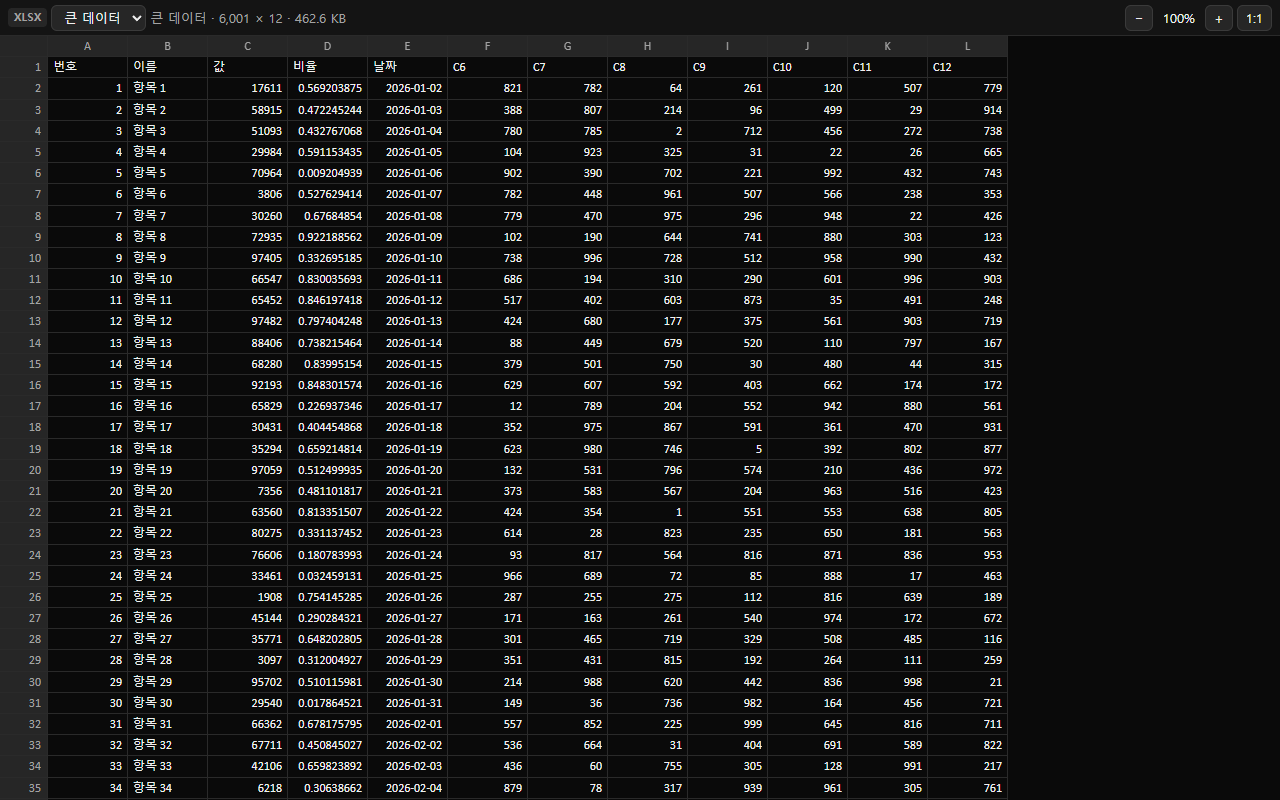
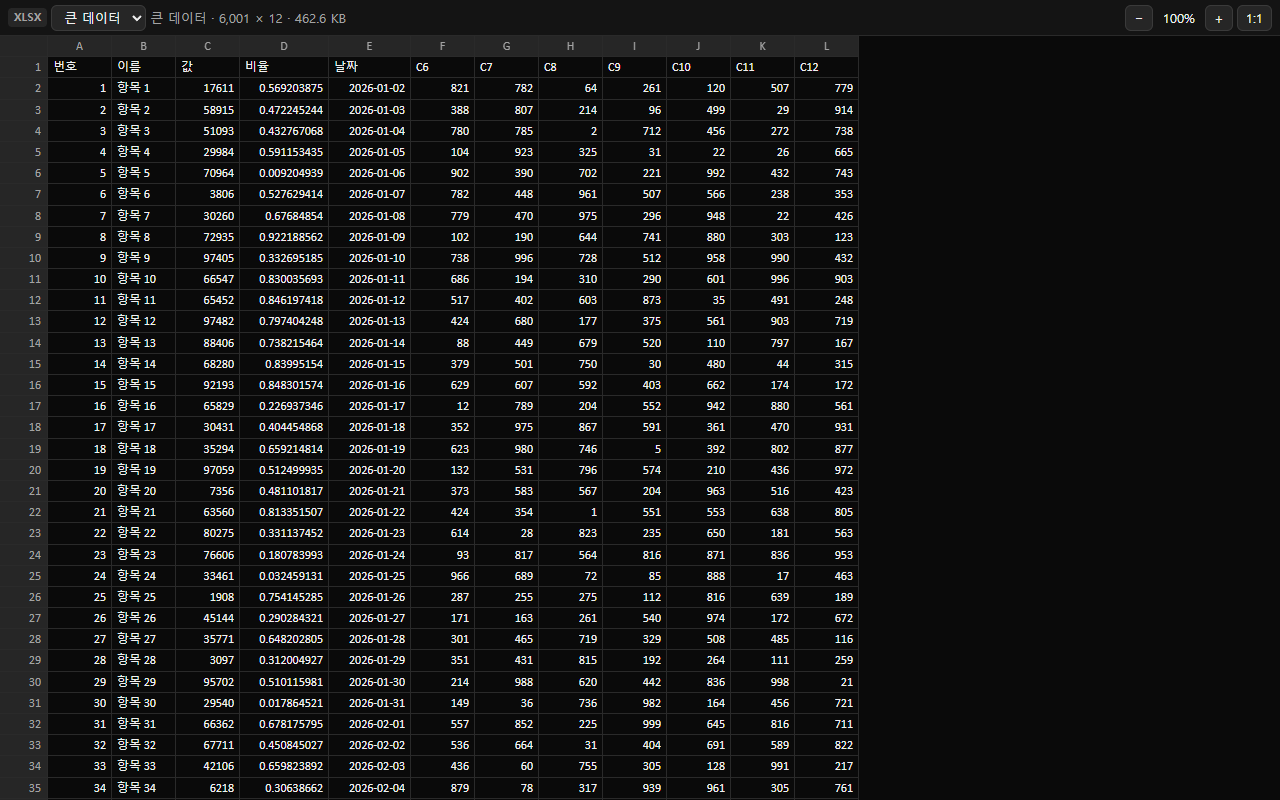
office: round-1 evidence and notes (docx reading/tables/lists, sheet widths)

diff --git a/docs/evidence/office/results.md b/docs/evidence/office/results.md
@@ -1,44 +1,44 @@
 # Harness results
 
-22 / 22 passed · 2026-11-12T06:09:43.889Z
+22 / 22 passed · 2026-11-12T06:14:31.897Z
 
 | Result | Profile | File | State | Time (ms) | Notes |
 | --- | --- | --- | --- | ---: | --- |
-| ✅ | desktop-dark | `broken.docx` | error (expect error) | 992 | console: Failed to load resource: the server responded with a status of 404 (Not Found)<br>console: Error: Corrupted zip: can't find end of central directory
-    at f.readEndOfCentral (http://127.0.0.1:5545/plugin/vendor/docx.js:2:32683)
+| ✅ | desktop-dark | `broken.docx` | error (expect error) | 827 | console: Failed to load resource: the server responded with a status of 404 (Not Found)<br>console: Error: Corrupted zip: can't find end of central directory
+    at f.readEndOfCentral (http://127.0.0.1:4538/plugin/vendor/docx.js:2:32683)
     at f.load<br>console: PreviewError: docx
-    at Module.render (http://127.0.0.1:5545/plugin/editor/renderers/docx.ts:54:11)
-    at async show (http://127.0.0.1:5545/plugin/e |
-| ✅ | desktop-dark | `broken.pptx` | error (expect error) | 699 | console: Error: invalid zip data
-    at Lr (http://127.0.0.1:5545/plugin/vendor/zip.js:1:5079)
-    at OoxmlPackage.open (http://127.0.0.1:5545/plugin/editor/ren<br>console: PreviewError: pptx
-    at Module.render (http://127.0.0.1:5545/plugin/editor/renderers/pptx.ts:45:11)
-    at show (http://127.0.0.1:5545/plugin/editor/ |
-| ✅ | desktop-dark | `sample-docx.doc` | ready (expect ready) | 821 |  |
-| ✅ | desktop-dark | `sample-large.xlsx` | ready (expect ready) | 1012 |  |
-| ✅ | desktop-dark | `sample-pptx.ppt` | ready (expect ready) | 732 |  |
-| ✅ | desktop-dark | `sample-shapes.pptx` | ready (expect ready) | 750 |  |
-| ✅ | desktop-dark | `sample.docx` | ready (expect ready) | 824 |  |
-| ✅ | desktop-dark | `sample.ods` | ready (expect ready) | 763 |  |
-| ✅ | desktop-dark | `sample.pptx` | ready (expect ready) | 702 |  |
-| ✅ | desktop-dark | `sample.xls` | ready (expect ready) | 751 |  |
-| ✅ | desktop-dark | `sample.xlsx` | ready (expect ready) | 753 |  |
-| ✅ | mobile-light | `broken.docx` | error (expect error) | 681 | console: Error: Corrupted zip: can't find end of central directory
-    at f.readEndOfCentral (http://127.0.0.1:5545/plugin/vendor/docx.js:2:32683)
+    at Module.render (http://127.0.0.1:4538/plugin/editor/renderers/docx.ts:65:11)
+    at async show (http://127.0.0.1:4538/plugin/e |
+| ✅ | desktop-dark | `broken.pptx` | error (expect error) | 771 | console: Error: invalid zip data
+    at Lr (http://127.0.0.1:4538/plugin/vendor/zip.js:1:5079)
+    at OoxmlPackage.open (http://127.0.0.1:4538/plugin/editor/ren<br>console: PreviewError: pptx
+    at Module.render (http://127.0.0.1:4538/plugin/editor/renderers/pptx.ts:45:11)
+    at show (http://127.0.0.1:4538/plugin/editor/ |
+| ✅ | desktop-dark | `sample-docx.doc` | ready (expect ready) | 824 |  |
+| ✅ | desktop-dark | `sample-large.xlsx` | ready (expect ready) | 981 |  |
+| ✅ | desktop-dark | `sample-pptx.ppt` | ready (expect ready) | 752 |  |
+| ✅ | desktop-dark | `sample-shapes.pptx` | ready (expect ready) | 765 |  |
+| ✅ | desktop-dark | `sample.docx` | ready (expect ready) | 792 |  |
+| ✅ | desktop-dark | `sample.ods` | ready (expect ready) | 760 |  |
+| ✅ | desktop-dark | `sample.pptx` | ready (expect ready) | 765 |  |
+| ✅ | desktop-dark | `sample.xls` | ready (expect ready) | 772 |  |
+| ✅ | desktop-dark | `sample.xlsx` | ready (expect ready) | 775 |  |
+| ✅ | mobile-light | `broken.docx` | error (expect error) | 770 | console: Error: Corrupted zip: can't find end of central directory
+    at f.readEndOfCentral (http://127.0.0.1:4538/plugin/vendor/docx.js:2:32683)
     at f.load<br>console: PreviewError: docx
-    at Module.render (http://127.0.0.1:5545/plugin/editor/renderers/docx.ts:54:11)
-    at async show (http://127.0.0.1:5545/plugin/e |
-| ✅ | mobile-light | `broken.pptx` | error (expect error) | 680 | console: Error: invalid zip data
-    at Lr (http://127.0.0.1:5545/plugin/vendor/zip.js:1:5079)
-    at OoxmlPackage.open (http://127.0.0.1:5545/plugin/editor/ren<br>console: PreviewError: pptx
-    at Module.render (http://127.0.0.1:5545/plugin/editor/renderers/pptx.ts:45:11)
-    at show (http://127.0.0.1:5545/plugin/editor/ |
-| ✅ | mobile-light | `sample-docx.doc` | ready (expect ready) | 812 |  |
-| ✅ | mobile-light | `sample-large.xlsx` | ready (expect ready) | 972 |  |
-| ✅ | mobile-light | `sample-pptx.ppt` | ready (expect ready) | 727 |  |
-| ✅ | mobile-light | `sample-shapes.pptx` | ready (expect ready) | 741 |  |
-| ✅ | mobile-light | `sample.docx` | ready (expect ready) | 803 |  |
-| ✅ | mobile-light | `sample.ods` | ready (expect ready) | 748 |  |
-| ✅ | mobile-light | `sample.pptx` | ready (expect ready) | 713 |  |
-| ✅ | mobile-light | `sample.xls` | ready (expect ready) | 729 |  |
-| ✅ | mobile-light | `sample.xlsx` | ready (expect ready) | 758 |  |
+    at Module.render (http://127.0.0.1:4538/plugin/editor/renderers/docx.ts:65:11)
+    at async show (http://127.0.0.1:4538/plugin/e |
+| ✅ | mobile-light | `broken.pptx` | error (expect error) | 768 | console: Error: invalid zip data
+    at Lr (http://127.0.0.1:4538/plugin/vendor/zip.js:1:5079)
+    at OoxmlPackage.open (http://127.0.0.1:4538/plugin/editor/ren<br>console: PreviewError: pptx
+    at Module.render (http://127.0.0.1:4538/plugin/editor/renderers/pptx.ts:45:11)
+    at show (http://127.0.0.1:4538/plugin/editor/ |
+| ✅ | mobile-light | `sample-docx.doc` | ready (expect ready) | 811 |  |
+| ✅ | mobile-light | `sample-large.xlsx` | ready (expect ready) | 968 |  |
+| ✅ | mobile-light | `sample-pptx.ppt` | ready (expect ready) | 758 |  |
+| ✅ | mobile-light | `sample-shapes.pptx` | ready (expect ready) | 763 |  |
+| ✅ | mobile-light | `sample.docx` | ready (expect ready) | 825 |  |
+| ✅ | mobile-light | `sample.ods` | ready (expect ready) | 772 |  |
+| ✅ | mobile-light | `sample.pptx` | ready (expect ready) | 780 |  |
+| ✅ | mobile-light | `sample.xls` | ready (expect ready) | 771 |  |
+| ✅ | mobile-light | `sample.xlsx` | ready (expect ready) | 775 |  |

diff --git a/docs/evidence/office/NOTES.md b/docs/evidence/office/NOTES.md
@@ -124,7 +124,40 @@ contains `new Function`, on a path taken only when a string (not a function) is 
   that paragraph is meant to be serif, as in Word; on devices without Cambria it now renders in Caladea/Georgia/Times
   rather than the browser's default font. Headings use Calibri → sans.
 
+### R1-11 DOCX reading layout
+- New toolbar toggle **읽기 / Reading** (aria-pressed) on every screen size; it is on by default when
+  `ctx.compact` (phones). Reading layout drops the paper's fixed width, margins, minimum height and page
+  headers/footers (`section.docx { width:auto; max-width:100%; padding:16px }`), so text wraps at the device
+  width at 100 % zoom; images get `max-width:100%`, and every top-level table sits in its own horizontally
+  scrolling box. Page layout is unchanged (fit-to-width when the paper is wider than the view). Zoom still works
+  in reading mode (text reflows at the zoomed size; fit = 100 %).
+
+### R1-12 DOCX table styles
+- docx-preview emits the CSS for table-style conditional formatting but only tags rows/cells with
+  `first-row`, `odd-row`, `first-col`, … when each row carries `w:cnfStyle` (Word writes it; python-docx and most
+  generators do not). `office/docx-fixes.ts#applyTableLook` derives the classes from the table look
+  (`first-row`, `last-row`, `first-col`, `last-col`, `no-hband`, `no-vband` on the `<table>`), skipping tables that
+  already have cnfStyle classes. `sample.docx`'s Light Grid Accent 1 now shows the bold header with the thick
+  rule, bold first column and banded #D3DFEE rows.
+- `padTableCells`: cells that end up with no vertical padding get 1.5 pt top/bottom (and 5.4 pt left/right when
+  those are zero too), so text no longer touches the top border.
+
+### R1-13 DOCX list indents
+- docx-preview draws list markers as `::before` content followed by a tab that collapses to a space.
+  `listIndentCss` reads each `p.docx-num-N-L { text-indent: -X }` rule and adds
+  `::before { display:inline-block; min-width:X }`, so text starts at the hanging indent as in Word.
+
+### R1-14 Sheet: cut-off numbers and dates
+- Numeric/date columns are widened to the widest formatted value among the first 200 rows (~7 px per char,
+  max 260 px) — Excel would show `###`, we show the value. Text cells overflow into empty cells on their right
+  (Excel behaviour) instead of being clipped with an ellipsis. `sample-large.xlsx` column E shows full dates.
+
+### R1-15 Sheet: .xls column widths
+- SheetJS's `wpx` for BIFF files assumes a 14 px max digit width (MDW), so .xls columns came out about twice as wide.
+  Widths now come from `width` (Excel column units) × 7 px for every format, then `wch` × 7 + 5, then `wpx`;
+  default 64 px (Excel's). `sample.xls` column B is 90 px vs 98 px in `sample.xlsx`.
+
 ### Changed files (round 1)
 `plugin/editor/renderers/office/{formula,formula.test,fonts,fonts.test}.ts` (new), `sheet.ts`, `docx.ts`,
-`pptx.ts`, `office/slides.ts`, `plugin/vendor/sheet.d.ts` (adds `SSF.format` and `CellObject.z`; the bundle
+`pptx.ts`, `office/slides.ts`, `office/docx-fixes.ts` (new, R1-12/13/11), `plugin/vendor/sheet.d.ts` (adds `SSF.format` and `CellObject.z`; the bundle
 already exported SSF, so `npm run vendor` was not needed). No shared core files changed.
